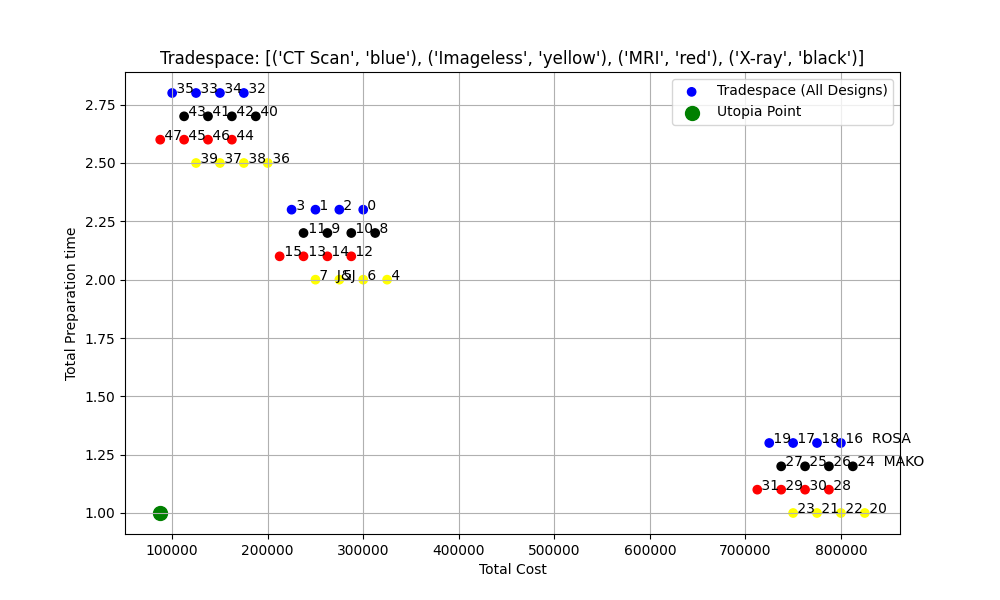
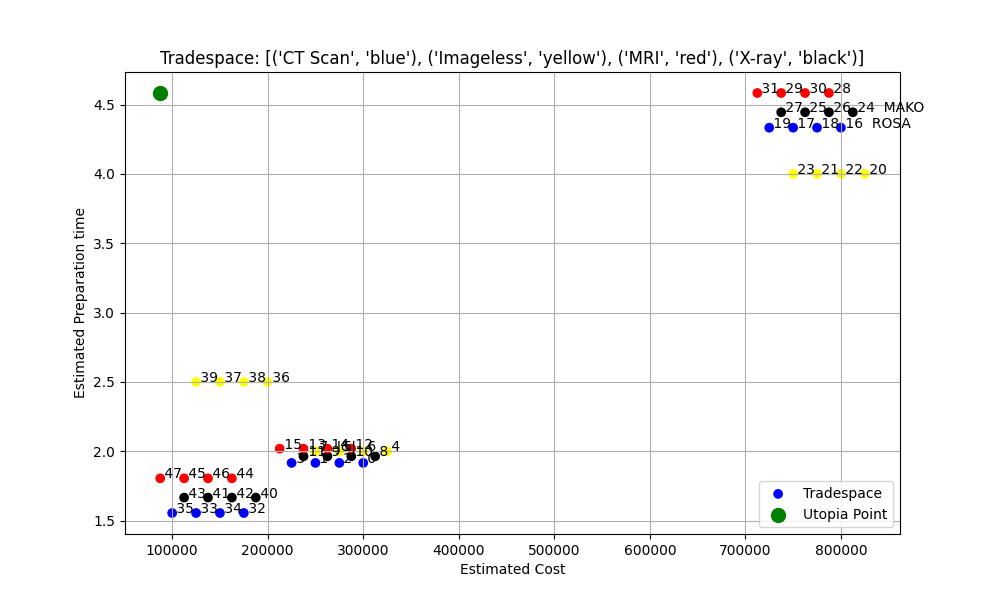
improve calculation and add manuale created designs json

diff --git a/Tradespace_exploration_python/tradespace.py b/Tradespace_exploration_python/tradespace.py
@@ -5,11 +5,12 @@ from PIL import Image
 
 # Load designs.json
 with open('designs.json', 'r') as file:
+# with open('designs_manual.json', 'r') as file:
     designs = json.load(file)
 
 # Extract cost and performance values
-costs = [design['Total Cost'] for design in designs]
-performances = [design['Total Performance'] for design in designs]
+costs = [design['Estimated Cost'] for design in designs]
+performances = [design['Estimated Performance'] for design in designs]
 options = [design['Selected Options'] for design in designs]
 name = [design['Name'] for design in designs]
 print(name)
@@ -17,7 +18,7 @@ points = np.array(list(zip(costs, performances)))
 
 reference_color = ['blue','yellow','red', "black", "yellow", "violet", "grey"]
 # Define the utopia point (ideal but unattainable point)
-utopia_point = [min(costs), min(performances)]
+utopia_point = [min(costs), max(performances)]
 
 
 # Plot tradespace and Pareto frontier with utopia point
@@ -34,15 +35,15 @@ for j in range(4):
                 color.append(reference_color[i])
     fig = plt.figure(figsize=(10, 6))
     ax = fig.add_subplot(111)
-    plt.scatter(costs, performances, c=color, label='Tradespace (All Designs)')
+    plt.scatter(costs, performances, c=color, label='Tradespace')
     #plt.plot(pareto_points[:, 0], pareto_points[:, 1], 'r--', label='Pareto Frontier')
     #plt.scatter(pareto_points[:, 0], pareto_points[:, 1], c='red', label='Pareto Points')
     # Add the utopia point to the plot
     plt.scatter(*utopia_point, c='green', s=100, label='Utopia Point')
 
     # Add labels and title
-    plt.xlabel('Total Cost')
-    plt.ylabel('Total Preparation time')
+    plt.xlabel('Estimated Cost')
+    plt.ylabel('Estimated Preparation time')
     combined_array = list(zip(unique_options, reference_color))
     title = 'Tradespace: ' + str(combined_array)
     plt.title(title)

diff --git a/Tradespace_exploration_python/generate_design.py b/Tradespace_exploration_python/generate_design.py
@@ -62,9 +62,9 @@ for combination in combinations:
     # print(combination)
     reference_setting_up_time=30 #[min] assumption setting up time  of the J&J robot
     total_setting_up_time = reference_setting_up_time+reference_setting_up_time*sum(option["setting_up_time_factor"]-1.0 for option in combination)
-    reference_accuracy_factor = 0.1#[mm] cutting accuracy
+    reference_accuracy_factor = 0.5#[mm] cutting accuracy
     total_accuracy_factor = reference_accuracy_factor+reference_accuracy_factor*sum(option["accuracy_factor"]-1.0 for option in combination)
-    total_performance = total_setting_up_time/reference_setting_up_time+total_accuracy_factor/reference_accuracy_factor
+    total_performance = 1/(total_setting_up_time/reference_setting_up_time)+1/(total_accuracy_factor/reference_accuracy_factor)
     name = ""
     selected_options = [option["name"] for option in combination]
     print(selected_options)
@@ -79,8 +79,8 @@ for combination in combinations:
     design = {
         "Name":name,
         "Selected Options": selected_options,
-        "Total Cost": total_cost,
-        "Total Performance": total_performance,
+        "Estimated Cost": total_cost,
+        "Estimated Performance": total_performance,
     }
     designs.append(design)
 
@@ -88,8 +88,8 @@ for combination in combinations:
 for i, design in enumerate(designs, start=1):
     print(f"Design {i}:")
     print(f"  Selected Options: {design['Selected Options']}")
-    print(f"  Total Cost: {design['Total Cost']}")
-    print(f"  Total Performance: {design['Total Performance']}")
+    print(f"  Estimated Cost: {design['Estimated Cost']}")
+    print(f"  Estimated Performance: {design['Estimated Performance']}")
     print()
 
 # Save results to a JSON file
